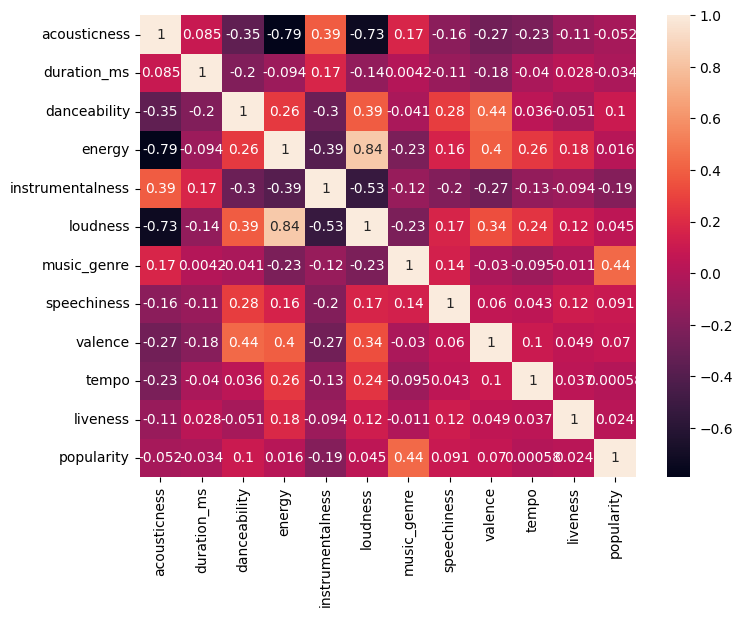
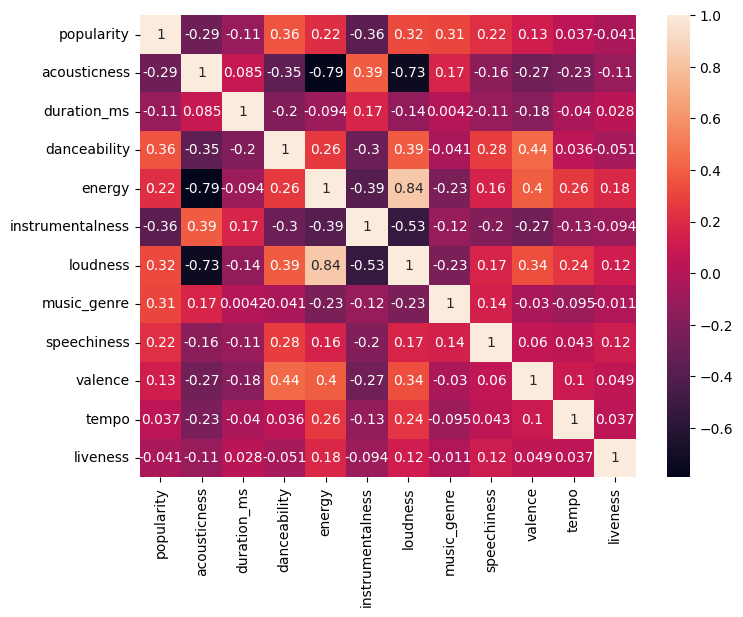
Ajuste de la matriz de correlacion

diff --git a/Analisis de Modelos.py b/Analisis de Modelos.py
@@ -69,11 +69,17 @@ x_train, x_test, y_train, y_test = train_test_split(
     inlets, oulets, test_size=0.2, random_state=42)
 
 # Correlation Matrix
-modelValues = inlets
-modelValues['popularity'] = oulets
-corr_df = modelValues.corr(method="pearson")
+modelValues = dataMusic[['popularity', 'acousticness', 'duration_ms',
+                         'danceability', 'energy', 'instrumentalness', 'loudness', 'music_genre', 'speechiness', 'valence', 'tempo', 'liveness']]
+modelValues['music_genre'] = modelValues['music_genre'].map(genres)
+modelValues['tempo'] = modelValues['tempo'].apply(
+    lambda x: tempoClassifier(x))
+modelValues = transformer.fit_transform(modelValues)
+modelValues = pd.DataFrame(modelValues, columns=['popularity', 'acousticness', 'duration_ms',
+                                                 'danceability', 'energy', 'instrumentalness', 'loudness', 'music_genre', 'speechiness', 'valence', 'tempo', 'liveness'])
+corrData = modelValues.corr(method="pearson")
 plt.figure(figsize=(8, 6))
-sns.heatmap(corr_df, annot=True)
+sns.heatmap(corrData, annot=True)
 plt.show()
 
 # Linear Regression model
